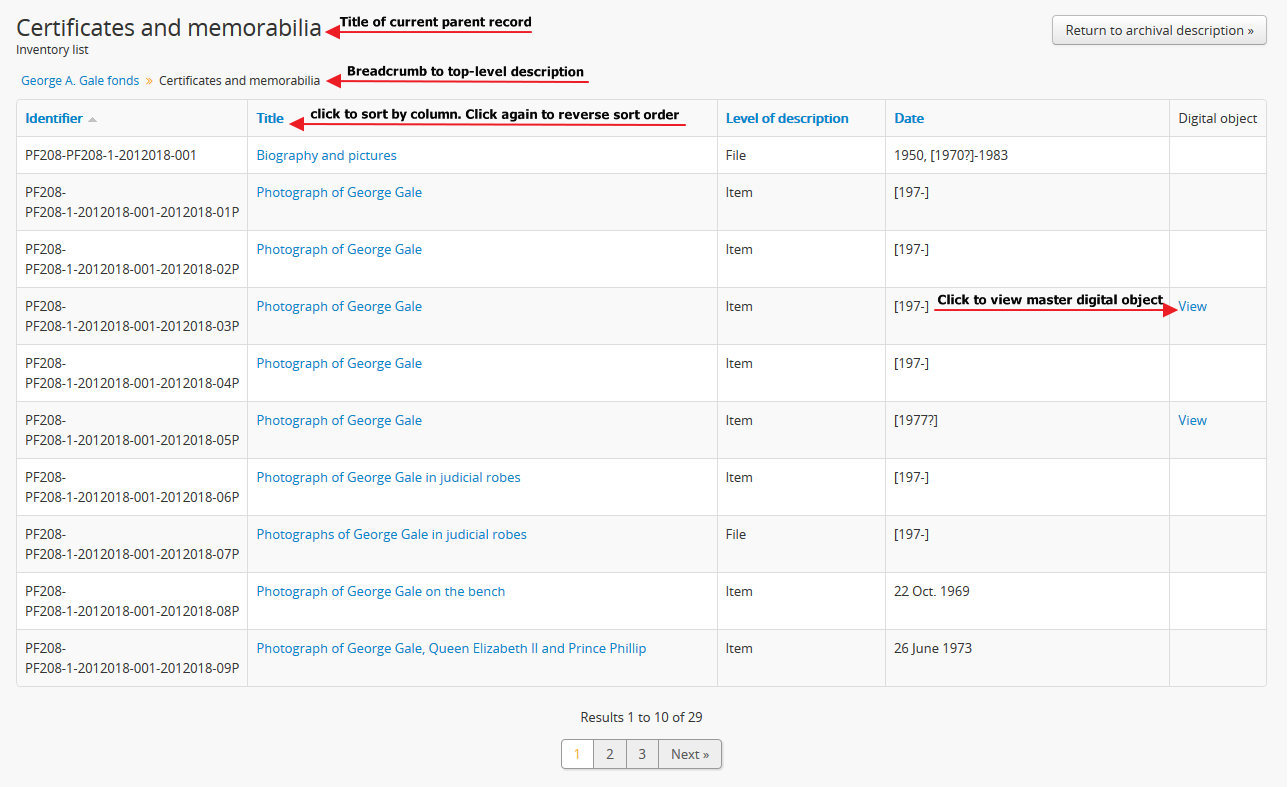
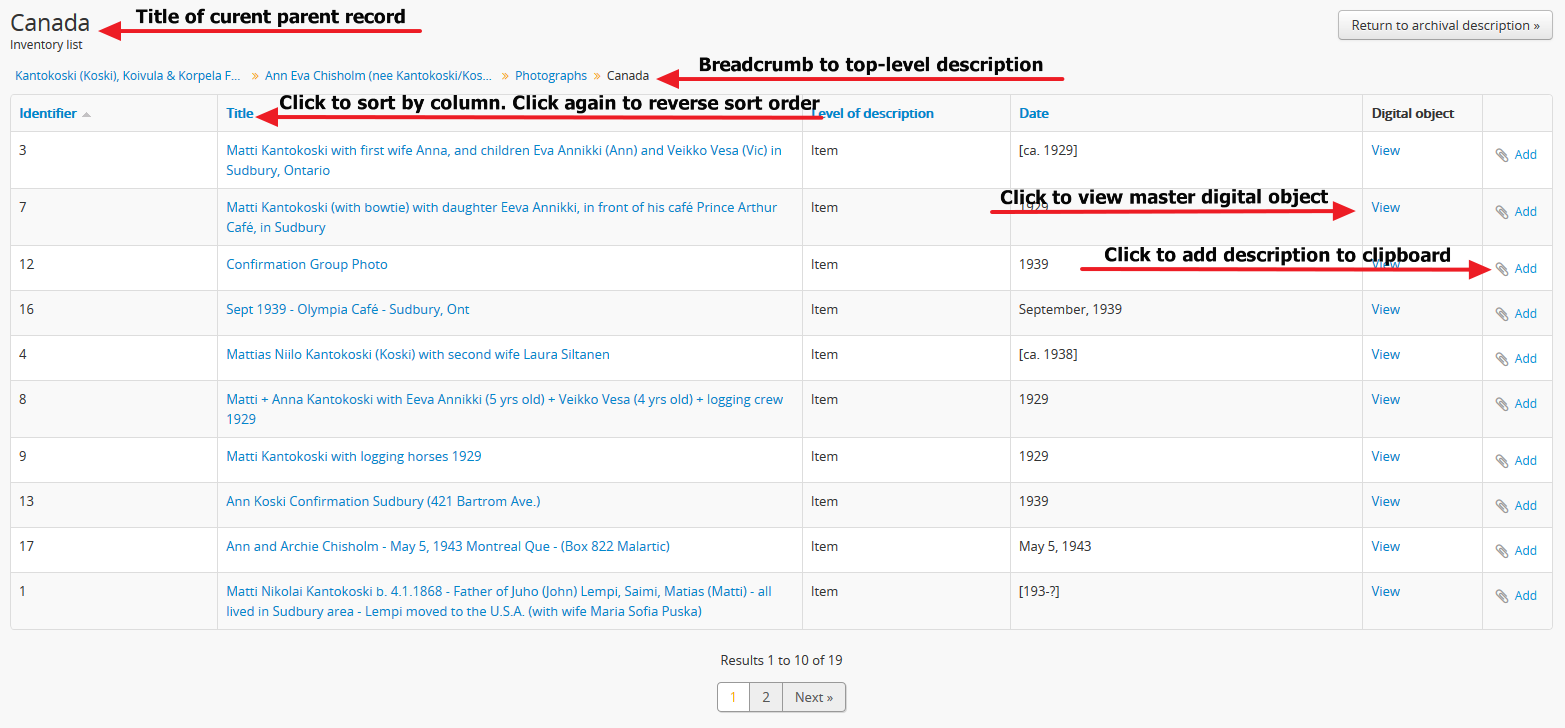
Update inventory docs, refs #1119

diff --git a/user-manual/access-content/browse.rst b/user-manual/access-content/browse.rst
@@ -38,6 +38,10 @@ Browse
 .. |gears| image:: images/gears.png
    :height: 18
 
+.. |clip| image:: images/paper-clip.png
+   :height: 18
+
+
 The Browse menus in AtoM allow users to browse complete lists of
 :term:`archival descriptions <archival description>`, as well as digital objects,
 :term:`authority records <authority record>` (for people and organizations),
@@ -448,14 +452,18 @@ view the lower-level :term:`children <child record>` in a way that the
 * Level of description
 * Date
 * Digital object
+* :ref:`clipboard` link
 
-Only the :term:`digital object` column is not sortable - this column will
-provide an indication of whether or not there is a digital object attached to
-the description - if so, the row will have a hyperlink called "View" in the
-Digital object column. Clicking on the "View" link will take a user directly
-to the :term:`master digital object` - if a user does not have
-:term:`permission <access privilege>` to view the master, the column's value
-will be empty for that row.
+Only the :term:`digital object`  and the Clipboard columns are not sortable.
+
+The Digital object column will provide an indication of whether or not there
+is a digital object attached to the description - if so, the row will have a
+hyperlink called "View" in the Digital object column. Clicking on the "View"
+link will take a user directly to the :term:`master digital object` - if a
+user does not have :term:`permission <access privilege>` to view the master,
+the column's value will be empty for that row.
+
+The :term:`clipboard` column contains links indicated by the
 
 Whether or not the Inventory link appears on a particular description will
 depend on how it has been configured in the settings page - there, an
